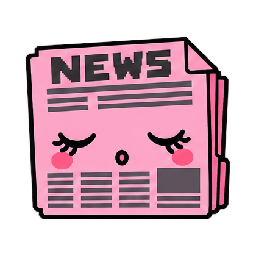
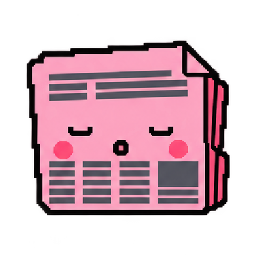
Match Paper Girl eyes and pair her with File Master

Changed region(s): [[0.0938, 0.125, 0.9062, 0.875]]

diff --git a/desktop-art/paper-girl/prompt-partner-20261011.md b/desktop-art/paper-girl/prompt-partner-20261011.md
@@ -1,0 +1,28 @@
+# Paper Girl desktop revision
+
+OpenAI Codex (GPT-6), 2026-10-11. Built-in image generation only; no paid API or CLI call. Owner requested removal of NEWS and eyes matching File Master. Existing newspaper identity and nine moods preserved. This art remains a draft for owner preference review.
+
+## Main edit prompt
+
+Use case: precise-object-edit.
+Asset type: desktop pet sprite sheet, 3 columns by 3 rows, nine expressions.
+Image 1 is the edit target, the pink newspaper Paper Girl. Image 2 is a reference only for eye style, the yellow folder File Master.
+Edit Paper Girl, not File Master. Preserve her pink folded newspaper silhouette, top-right folded corner, layered paper edges, abstract gray horizontal columns, black pixel outline, soft pink palette, small rosy cheek accents and all nine expressions in their current order. She has no arms or legs in the existing image; keep that silhouette.
+Two requested face/text changes: Remove NEWS completely from ALL NINE newspapers. Leave a pink space with simple abstract gray rule/column marks if needed; absolutely no words, letters, readable text or symbols anywhere. Replace giant glossy circular eyes and eyelashes with File Master's small vertical black pixel rectangle/dot eyes, each open eye containing just one tiny square white highlight. They must be much smaller than old Paper Girl eyes, precisely in File Master's restrained eye style. No lashes. Closed-eye expressions use short small black horizontal strokes.
+Moods row-major: idle gentle smile; blink eyes closed; happy; curious; worried; sad; sick; alarmed; asleep. Change only eyes, eyebrows and mouth for moods. No floating question marks, sweat, tears, Z letters, badges or decorative symbols.
+Composition: exactly 3x3 equal cells, one fully visible pink newspaper centered in each cell, consistent character size, consistent proportions and uniform generous empty transparent margins. Do not clip any paper. No grid lines or labels. Crisp thin black pixel outline around sprite. This is actual transparent RGBA sprite art: ALL space outside silhouettes and gutters must be truly transparent alpha=0, no dark background, no black rectangles, no checkerboards, no glow or halo, no shadows. Preserve black outline, preserve pink newspaper; remove the entire dark background of reference.
+
+## Transparency refinement prompt
+
+Use case: background-extraction. Remove the entire dark/pink glowing background from this nine-frame 3x3 sprite sheet. It MUST have genuine clean RGBA transparency around each newspaper with alpha=0 all the way right up to its outer black silhouette. There must be no partial-alpha halo or shadow whatsoever, and no glow. Each pink newspaper and all its black outlines must be fully opaque, alpha=255, except for narrow edge antialiasing. Preserve ALL existing pixel details and the position, scale and shape of all nine paper characters exactly. Do not change small black rectangular white-highlight eyes, mouths, expression, corners, pink color, black outlines, layout or graphic newspaper columns. No text. No background design, no color field, no smoky darkness, no backdrop, no checkerboard. This is a clean transparent cutout of nine separate illustrated newspapers.
+
+## Final square-layout prompt
+
+Recreate the nine identical-character sprites from the reference as a SQUARE sprite sheet (square aspect ratio, 1024x1024), with 3 equal columns and 3 equal rows.
+Use the reference strictly for the pink folded newspaper character identity and its nine expressions. The sprite sheet background must be true transparent RGBA, alpha=0, no colored or dark background and no glow. Each character floats separately in its own evenly spaced invisible cell, centered with generous blank TRANSPARENT margins on all four sides. All sprites same size and fully contained with lots of space between rows. Imagine a tic-tac-toe grid: one sprite centered in each square without touching invisible gridlines. Do NOT reuse the rectangular reference canvas or placement. New square composition. No drawn gridlines.
+Preserve pink newspaper with top-right folded corner, black pixel-art outline, abstract gray columns, rosy cheeks. No NEWS, NO TEXT OR LETTERS anywhere. Small vertical black rectangle eyes with one tiny square white highlight, NO lashes, NO giant glossy eyes. No limbs.
+Mood positions: top-left idle smile, top-center blink, top-right happy; middle-left curious, middle-center worried, middle-right sad; bottom-left sick, bottom-center alarmed, bottom-right sleep. No floating symbols. Preserve design details, adjust layout to SQUARE and wide transparent gutters. Flat clean pixel sprites, no shadow, no halo.
+
+## Output and slicing
+
+Original active assets were preserved locally in `bin/paper-girl-before-partner-20261011/`. The selected generated sheet replaces the existing `sheet-20261011.png`; nine transparent 256px frames are derived using the existing `scripts/build-desktop-art-20261011.mjs paper-girl` without altering the generated artwork. Alpha is retained; RGB values behind alpha-zero pixels are invisible in the actual desktop renderer.

diff --git a/AGENTS.md b/AGENTS.md
@@ -9,3 +9,5 @@ Pet interface and art integration: OpenAI Codex (GPT-6), 2026-10-08.
 Desktop artwork and size sync: OpenAI Codex (GPT-6), 2026-10-11. Read desktop-pet-20261011.json. No sparkles. Keep draft and approved design status explicit.
 
 Desktop appearance revision by OpenAI Codex (GPT-6), 2026-10-11. See desktop-pet-20261011.json; runtime behavior is in astras-pet-apps.
+
+Paired desktop revision by OpenAI Codex (GPT-6), 2026-10-11: Paper Girl and File Master use matching small eyes and travel together. Artwork and companion behavior are recorded in desktop-pet-20261011.json; implementation and tests live in astras-pet-apps.
